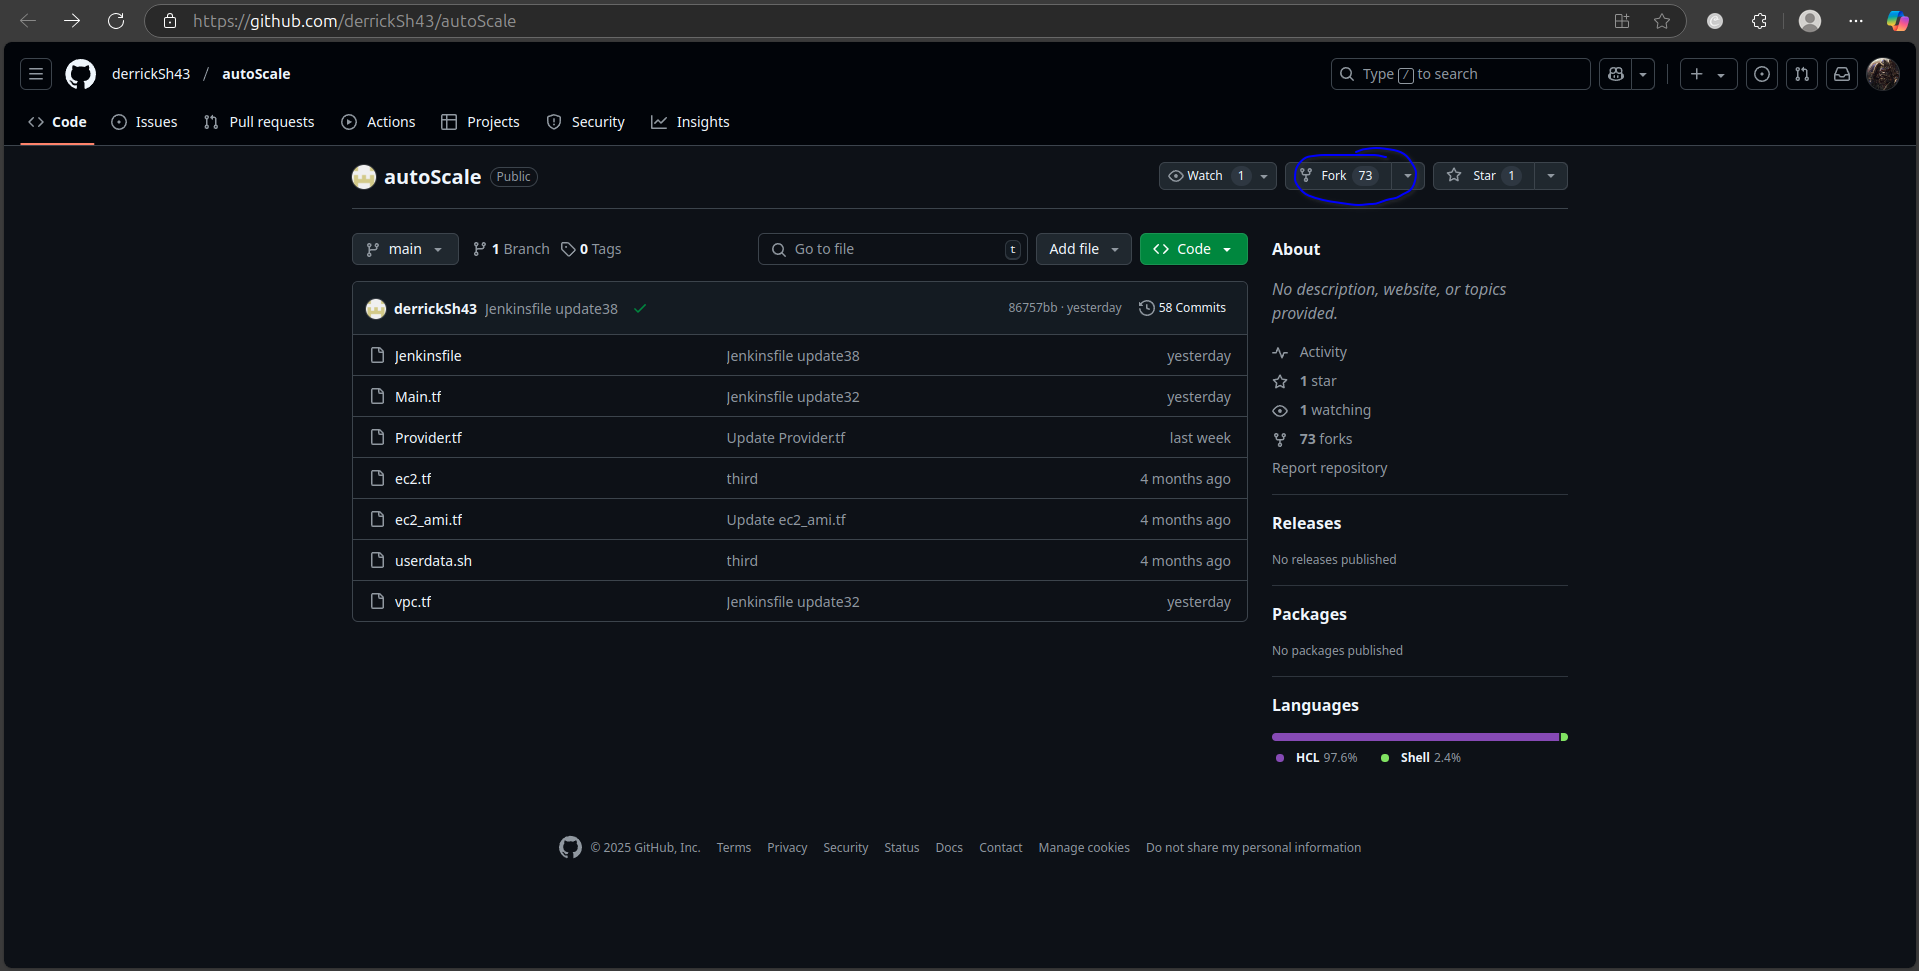
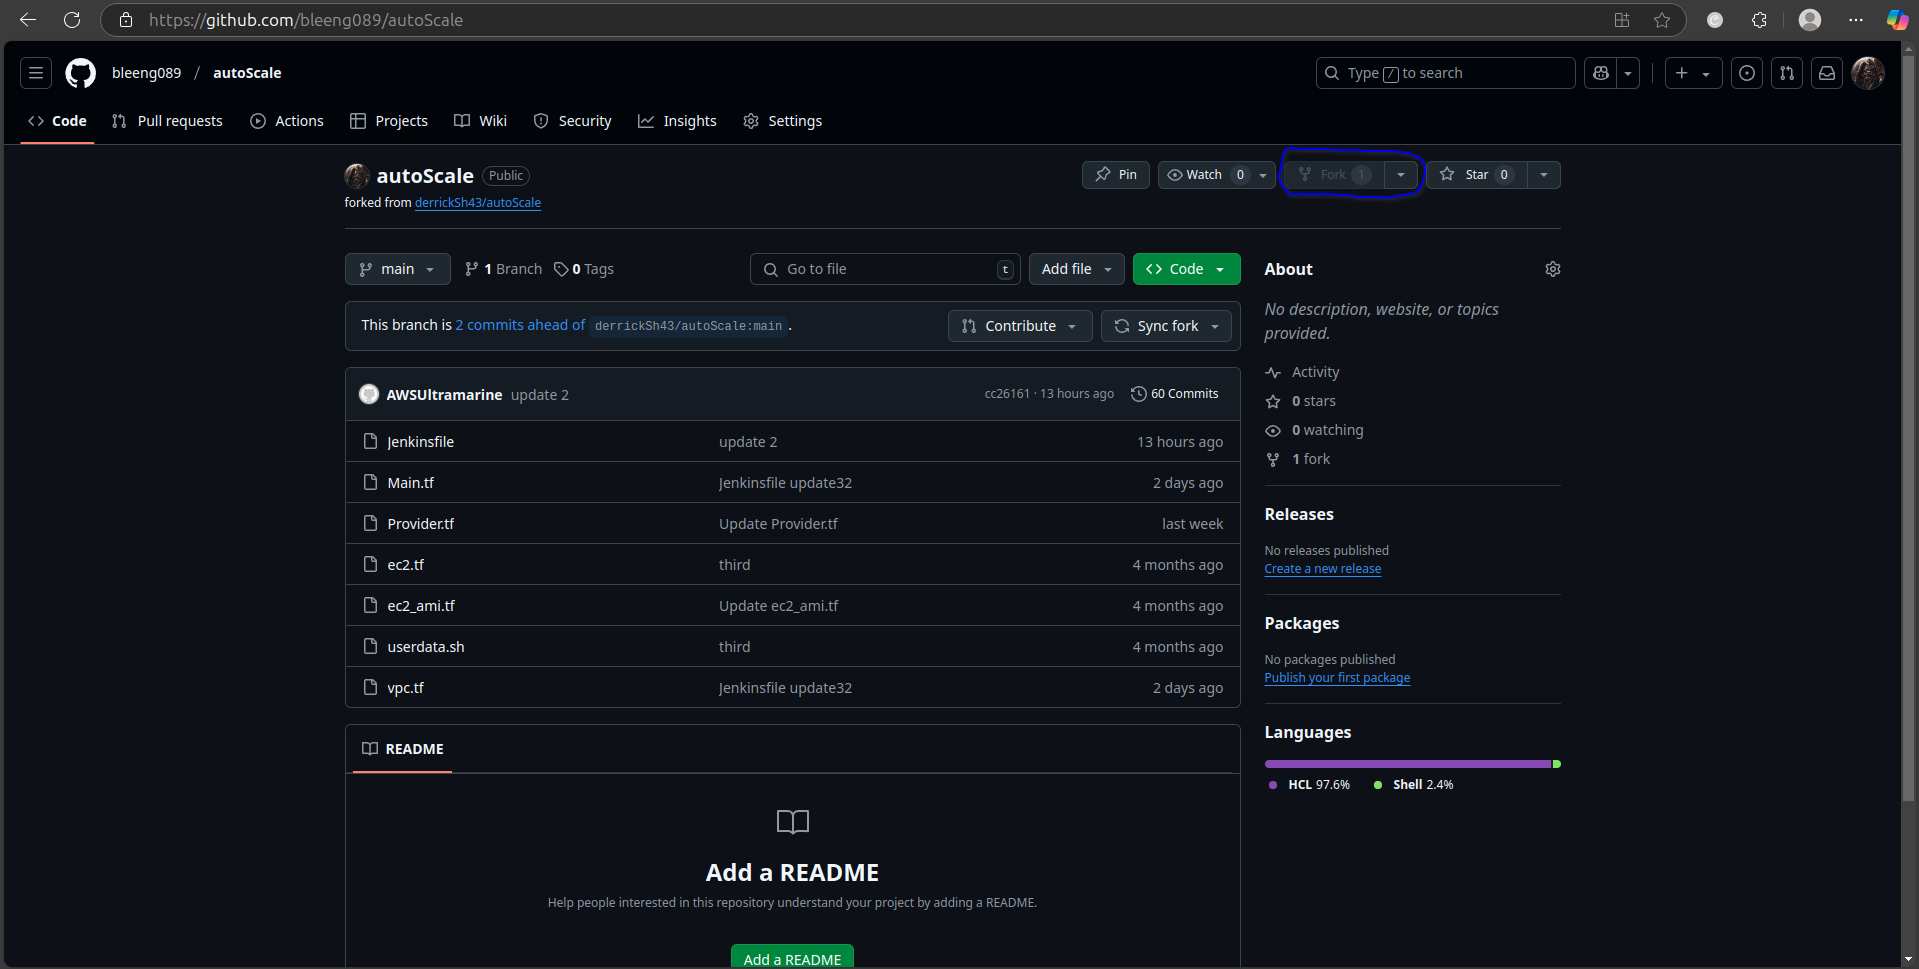
fixed reference

diff --git a/index.md b/index.md
@@ -109,10 +109,8 @@
 ### *export PATH=/usr/local/bin:$PATH*
 
 ## Step 11: Exit the container and head to github https://github.com/bleeng089/autoScale.git
-- Fork this repo and clone the forked repo
+- Fork my repo and clone the forked repo
 ![Jenkins Implementation](https://github.com/bleeng089/Jenkins_Implementation.github.io/raw/main/image24.png)
-![Jenkins Implementation](https://github.com/bleeng089/Jenkins_Implementation.github.io/raw/main/image25.png)
-![Jenkins Implementation](https://github.com/bleeng089/Jenkins_Implementation.github.io/raw/main/image26.png)
 ![Jenkins Implementation](https://github.com/bleeng089/Jenkins_Implementation.github.io/raw/main/image27.png)
 - Line 11 in "Jenkinsfile" is what we'll name the Access Key ID in Jenkins. This will allow Jenkins to reference our AWS Access Keys in order to build infrastructure
 ![Jenkins Implementation](https://github.com/bleeng089/Jenkins_Implementation.github.io/raw/main/image28.png)
